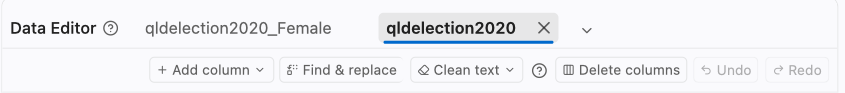
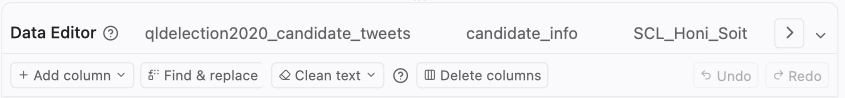
Data Editor: scrolling tab strip, tools left and Undo/Redo right, wider tab list, steady scroll, double-click column rename (#208)
- EditorTabs puts its className on the outer box, so a flex parent can shrink
  it: the strip scrolls with its edge buttons again, and the tab list button
  stays at the right end instead of being pushed out.
- The editing tools sit on the left and Undo/Redo at the right end.
- The tab list sizes to the names (up to a wide cap) and long names keep their
  start and end with the middle faded.
- The table called flexRender, which mounts each header and cell renderer as a
  component; they are rebuilt every render, so a type change remounted every
  cell and WebKit scrolled back to the top-left. The renderers are now called
  directly, so the scroll position holds.
- Double-click a column name to rename it.
- Docs and screenshots updated.

diff --git a/frontend/src/features/workspace/data-view/components/WorkspaceTable.tsx b/frontend/src/features/workspace/data-view/components/WorkspaceTable.tsx
@@ -1,9 +1,9 @@
-import { useEffect, useMemo, useRef, useState } from 'react';
+import { type ReactNode, useEffect, useMemo, useRef, useState } from 'react';
 import type {
   SortingState,
   PaginationState as TanstackPaginationState,
 } from '@tanstack/react-table';
-import { type ColumnPinningState, flexRender, useTable } from '@tanstack/react-table';
+import { type ColumnPinningState, useTable } from '@tanstack/react-table';
 import { Loader2 } from 'lucide-react';
 import { cn } from '@/lib/utils';
 import { ScrollArea } from '@/components/ui/scroll-area';
@@ -53,6 +53,19 @@ const WIDE_COLUMN_THRESHOLD = 120;
 const COLLAPSED_COLUMN_MAX_WIDTH = 320;
 const EXPANDED_COLUMN_MAX_WIDTH = 960;
 const WIDE_COLUMN_SAMPLE_LIMIT = 25;
+
+/**
+ * Renders a header or cell definition by calling it. `flexRender` would mount
+ * each renderer as a component, and these are rebuilt on every render, so
+ * every cell remounted whenever the table re-rendered (a type change, say).
+ * WebKit then scrolled the table back to its top-left corner (issue 208).
+ */
+function renderColumnPart<TContext>(
+  part: ReactNode | ((context: TContext) => ReactNode) | undefined,
+  context: TContext,
+): ReactNode {
+  return typeof part === 'function' ? part(context) : part;
+}
 
 // --- Props ---
 export interface WorkspaceTableProps {
@@ -588,7 +601,7 @@ export function WorkspaceTable({
                       >
                         {header.isPlaceholder
                           ? null
-                          : flexRender(header.column.columnDef.header, header.getContext())}
+                          : renderColumnPart(header.column.columnDef.header, header.getContext())}
                       </TableHead>
                     );
                   })}
@@ -635,7 +648,7 @@ export function WorkspaceTable({
                           ...getPinnedStyles(cell.column, 'cell'),
                         }}
                       >
-                        {flexRender(cell.column.columnDef.cell, cell.getContext())}
+                        {renderColumnPart(cell.column.columnDef.cell, cell.getContext())}
                       </TableCell>
                     );
                   })}

diff --git a/frontend/src/features/workspace/data-view/components/WorkspaceDataHeader.tsx b/frontend/src/features/workspace/data-view/components/WorkspaceDataHeader.tsx
@@ -59,19 +59,11 @@ export const WorkspaceDataHeader = ({
 
   return (
     <div className="shrink-0 border-b border-surface-border bg-panel p-2">
-      {/* Wraps instead of squeezing: on a narrow panel the tools move to a
-          second line rather than overlapping the Data Block name. */}
+      {/* The editing tools sit on the left and Undo/Redo at the right end
+          (issue 208); on a narrow panel Undo/Redo wrap to a second line. The
+          title and renaming live in the tab strip above (issue 206). */}
       <div className="flex min-w-0 flex-wrap items-center gap-x-2 gap-y-1.5">
-        {/* The title and renaming live in the tab strip above (issue 206). */}
-        {info.isEmptyTable && (
-          <span
-            className="shrink-0 text-label-secondary italic text-description"
-            aria-live="polite"
-          >
-            (empty table)
-          </span>
-        )}
-        <div className="ml-auto flex flex-wrap items-center justify-end gap-1.5">
+        <div className="flex flex-wrap items-center gap-1.5">
           {onOpenTool ? (
             <>
               <DropdownMenu>
@@ -173,6 +165,16 @@ export const WorkspaceDataHeader = ({
               Delete columns
             </button>
           ) : null}
+          {info.isEmptyTable && (
+            <span
+              className="shrink-0 text-label-secondary italic text-description"
+              aria-live="polite"
+            >
+              (empty table)
+            </span>
+          )}
+        </div>
+        <div className="ml-auto flex items-center gap-1.5">
           <button
             type="button"
             className="inline-flex items-center gap-1 rounded-sm border px-1.5 py-0.5 text-label-secondary text-description enabled:hover:text-foreground disabled:cursor-not-allowed disabled:opacity-50"

diff --git a/frontend/src/features/workspace/data-view/components/__tests__/WorkspaceTable.test.tsx b/frontend/src/features/workspace/data-view/components/__tests__/WorkspaceTable.test.tsx
@@ -340,4 +340,44 @@ describe('WorkspaceTable', () => {
     expect(viewport.scrollLeft).toBe(600);
     rect.mockRestore();
   });
+
+  it('renames a column when its name is double-clicked (issue 208)', async () => {
+    const user = userEvent.setup();
+    const onRenameColumn = vi.fn().mockResolvedValue(undefined);
+    render(
+      <WorkspaceTable
+        columns={['speaker']}
+        columnFields={{ speaker: new Field('speaker', new Utf8()) }}
+        data={[{ speaker: 'Ada' }]}
+        onRenameColumn={onRenameColumn}
+      />,
+    );
+
+    await user.dblClick(screen.getByTitle('speaker (double-click to rename)'));
+    const input = screen.getByRole('textbox', { name: 'Rename column speaker' });
+    await user.clear(input);
+    await user.type(input, 'member{Enter}');
+
+    await waitFor(() => {
+      expect(onRenameColumn).toHaveBeenCalledWith('speaker', 'member');
+    });
+  });
+
+  it('keeps cells mounted when the table re-renders, so the scroll position holds (issue 208)', () => {
+    const props = {
+      columns: ['speaker'],
+      columnFields: { speaker: new Field('speaker', new Utf8()) },
+      data: [{ speaker: 'Ada' }],
+    };
+    const { rerender } = render(<WorkspaceTable {...props} />);
+    const cell = screen.getByTitle('Ada');
+    const header = screen.getByRole('button', { name: 'Change data type for column speaker' });
+
+    rerender(<WorkspaceTable {...props} fetching />);
+
+    expect(screen.getByTitle('Ada')).toBe(cell);
+    expect(screen.getByRole('button', { name: 'Change data type for column speaker' })).toBe(
+      header,
+    );
+  });
 });

diff --git a/frontend/src/features/workspace/data-view/components/WorkspaceSelectionTabs.tsx b/frontend/src/features/workspace/data-view/components/WorkspaceSelectionTabs.tsx
@@ -1,6 +1,7 @@
 import { Check, ChevronDown } from 'lucide-react';
 
 import HelpIcon from '@/components/help/HelpIcon';
+import { MiddleFadeLabel } from '@/components/layout/sidebar/MiddleFadeLabel';
 import { EditorTabs, type EditorTabItem } from '@/components/tabs';
 import {
   DropdownMenu,
@@ -69,7 +70,12 @@ export const WorkspaceSelectionTabs = ({
             <ChevronDown className="size-4" aria-hidden="true" />
           </button>
         </DropdownMenuTrigger>
-        <DropdownMenuContent align="end" className="max-h-80 w-64 overflow-y-auto">
+        {/* Sized to the names, up to a wide cap; longer names keep their start
+            and end with the middle faded (issue 208). */}
+        <DropdownMenuContent
+          align="end"
+          className="max-h-80 w-max min-w-64 max-w-[min(36rem,calc(100vw-2rem))] overflow-y-auto"
+        >
           {sortedTabs.map((tab) => (
             <DropdownMenuItem
               key={tab.id}
@@ -81,7 +87,7 @@ export const WorkspaceSelectionTabs = ({
                 className={tab.isActive ? 'size-3.5 shrink-0' : 'size-3.5 shrink-0 opacity-0'}
                 aria-hidden="true"
               />
-              <span className="truncate">{tab.label}</span>
+              <MiddleFadeLabel text={tab.label} className="flex-1" />
             </DropdownMenuItem>
           ))}
         </DropdownMenuContent>

diff --git a/frontend/src/features/workspace/data-view/components/WorkspaceColumnHeader.tsx b/frontend/src/features/workspace/data-view/components/WorkspaceColumnHeader.tsx
@@ -183,9 +183,18 @@ export function WorkspaceColumnHeader({
         />
       ) : (
         <div className="min-w-0">
+          {/* Double-click the name to rename the column, like a tab (issue 208). */}
           <span
             className="block max-w-[160px] truncate text-label-secondary font-medium text-foreground"
-            title={column}
+            title={canRename ? `${column} (double-click to rename)` : column}
+            onDoubleClick={
+              canRename && !isColumnBusy
+                ? (event) => {
+                    event.preventDefault();
+                    onStartRename();
+                  }
+                : undefined
+            }
           >
             {column}
           </span>

diff --git a/frontend/src/components/tabs/EditorTabs.tsx b/frontend/src/components/tabs/EditorTabs.tsx
@@ -329,10 +329,12 @@ export function EditorTabs({
 
   return (
     <TooltipProvider delayDuration={300} skipDelayDuration={100}>
-      <div className="relative">
+      {/* The class goes on the outer box so a flex parent can shrink it and the
+        strip scrolls, rather than growing to fit every tab (issue 208). */}
+      <div className={cn('relative', className)}>
         <div
           ref={scrollRef}
-          className={cn('relative overflow-x-auto overflow-y-hidden px-[8px] pt-[8px]', className)}
+          className="relative overflow-x-auto overflow-y-hidden px-[8px] pt-[8px]"
           role="tablist"
           aria-label={ariaLabel}
           onScroll={updateHiddenEdges}

diff --git a/frontend/src/features/workspace/data-view/components/__tests__/WorkspaceSelectionTabs.test.tsx b/frontend/src/features/workspace/data-view/components/__tests__/WorkspaceSelectionTabs.test.tsx
@@ -90,11 +90,10 @@ describe('WorkspaceSelectionTabs', () => {
 
     await user.click(screen.getByRole('button', { name: 'All Data Block tabs' }));
     const items = await screen.findAllByRole('menuitem');
-    expect(items.map((item) => item.textContent)).toEqual([
-      'Alpha speeches',
-      'beta letters',
-      'zeta tweets',
-    ]);
+    // Long names keep their start and end (issue 208); the full name is the title.
+    expect(
+      items.map((item) => within(item).getByTestId('middle-fade-label').getAttribute('title')),
+    ).toEqual(['Alpha speeches', 'beta letters', 'zeta tweets']);
     await user.click(items[1]!);
 
     expect(onTabChange).toHaveBeenCalledWith('node-3');

diff --git a/frontend/public/tutorials/ui.md b/frontend/public/tutorials/ui.md
@@ -126,9 +126,9 @@ To switch projects without going to the Data Loader, use **Switch Project** at t
 
 The **Data Editor** fills the bottom-right area. It shows the contents of the selected data blocks as a table, and it is where you change a data block in place: its columns and their values. Tools that make new data blocks or change which rows are present (Filter, Group, Join, Segment, Aggregate, Sample, Deduplicate, Stack) are in the [Data Builder](./preprocessing.md).
 
-- Each selected data block has a tab in the Data Editor title bar. Click a tab to show that data block; the **×** on a tab deselects it, and you can drag tabs to reorder them.
+- Each selected data block has a tab in the Data Editor title bar. Click a tab to show that data block; the **×** on a tab deselects it, and you can drag tabs to reorder them. When the tabs do not fit, scroll the strip or use the arrow buttons at its ends.
 - To rename a data block, click its tab to make it the current one, then double-click the tab name, type the new name, and press Enter (Esc cancels). Analysis tool tabs are renamed the same way.
-- With many tabs, click the arrow at the right end of the title bar for a list of every tab in alphabetical order, and choose one to switch to it.
+- With many tabs, click the arrow at the right end of the title bar for a list of every tab in alphabetical order, and choose one to switch to it. A very long name shows its start and end, with the middle faded.
 
 ![Data Editor header with two selected data blocks as tabs](tutorials/assets/ui/data_editor_header.png)
 
@@ -156,7 +156,7 @@ The **Data Editor** fills the bottom-right area. It shows the contents of the se
 
 ![Delete columns dialog with three columns ticked](tutorials/assets/ui/delete_columns.png)
 
-- **Undo** and **Redo** revert or reapply the selected Data Block's most recent plan edit. The same actions are available in the graph Data Block menu. History is independent per Data Block, stores at most 50 plans, and lasts only while the Project remains open in the backend process. Closing and reopening preserves the latest data but clears both buttons.
+- **Undo** and **Redo**, at the right end of the tools row, revert or reapply the selected Data Block's most recent plan edit. The same actions are available in the graph Data Block menu. History is independent per Data Block, stores at most 50 plans, and lasts only while the Project remains open in the backend process. Closing and reopening preserves the latest data but clears both buttons.
 - Each column header shows the column name and a symbol for its data type, which keeps columns narrow. Point to the symbol to see the type's name:
 
   | Symbol | Data type |
@@ -175,7 +175,7 @@ The **Data Editor** fills the bottom-right area. It shows the contents of the se
 
 ![Column headers: pin, name, sort, data type, and settings](tutorials/assets/ui/column_header.png)
 
-- Click the settings icon (the sliders) at the right of a column header for that column's tools (**Find & replace**, **Clean text**, **Extract text**, **Split**, **Count**, **Duplicate**) and to **Rename** or **Delete** it.
+- Click the settings icon (the sliders) at the right of a column header for that column's tools (**Find & replace**, **Clean text**, **Extract text**, **Split**, **Count**, **Duplicate**) and to **Rename** or **Delete** it. You can also double-click a column name to rename it: type the new name and press Enter (Esc cancels).
 
 ![A column's settings menu](tutorials/assets/ui/column_menu.png)
 
